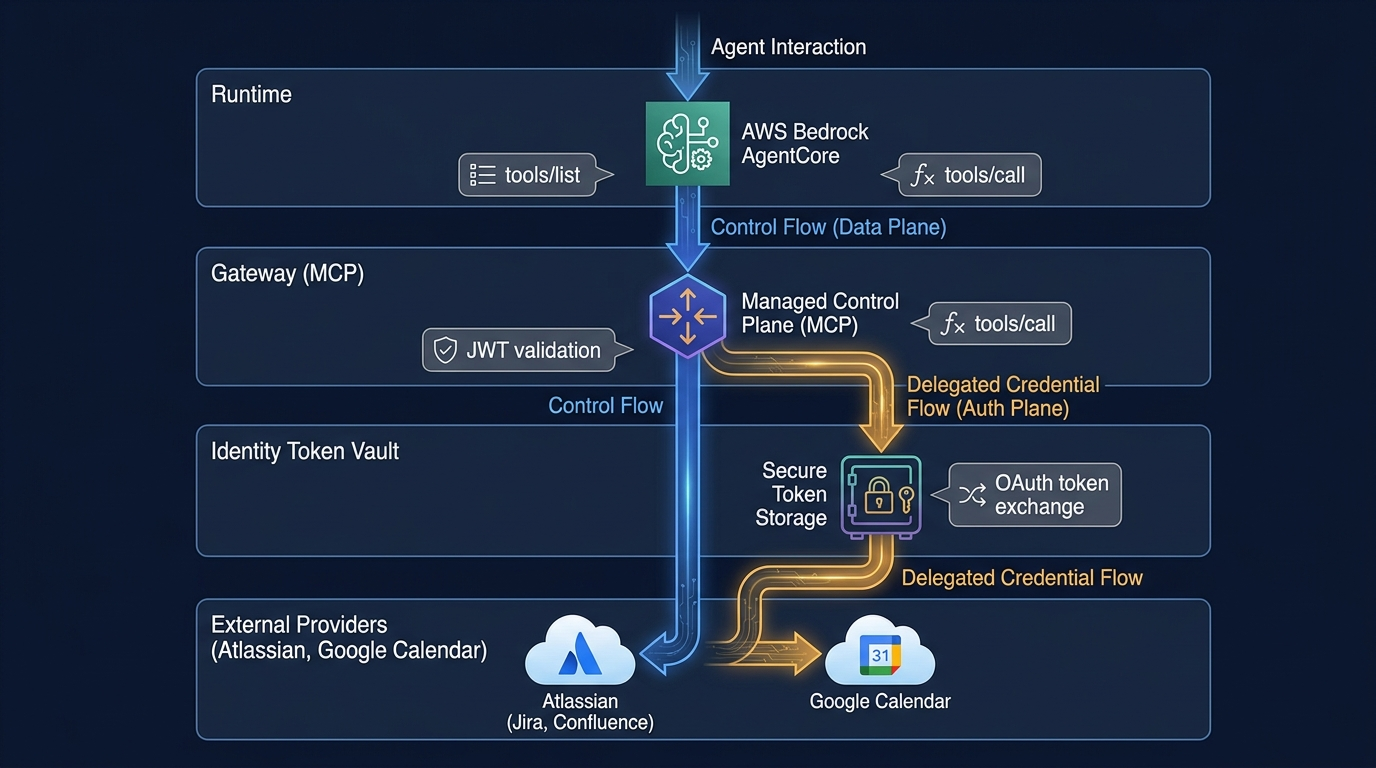
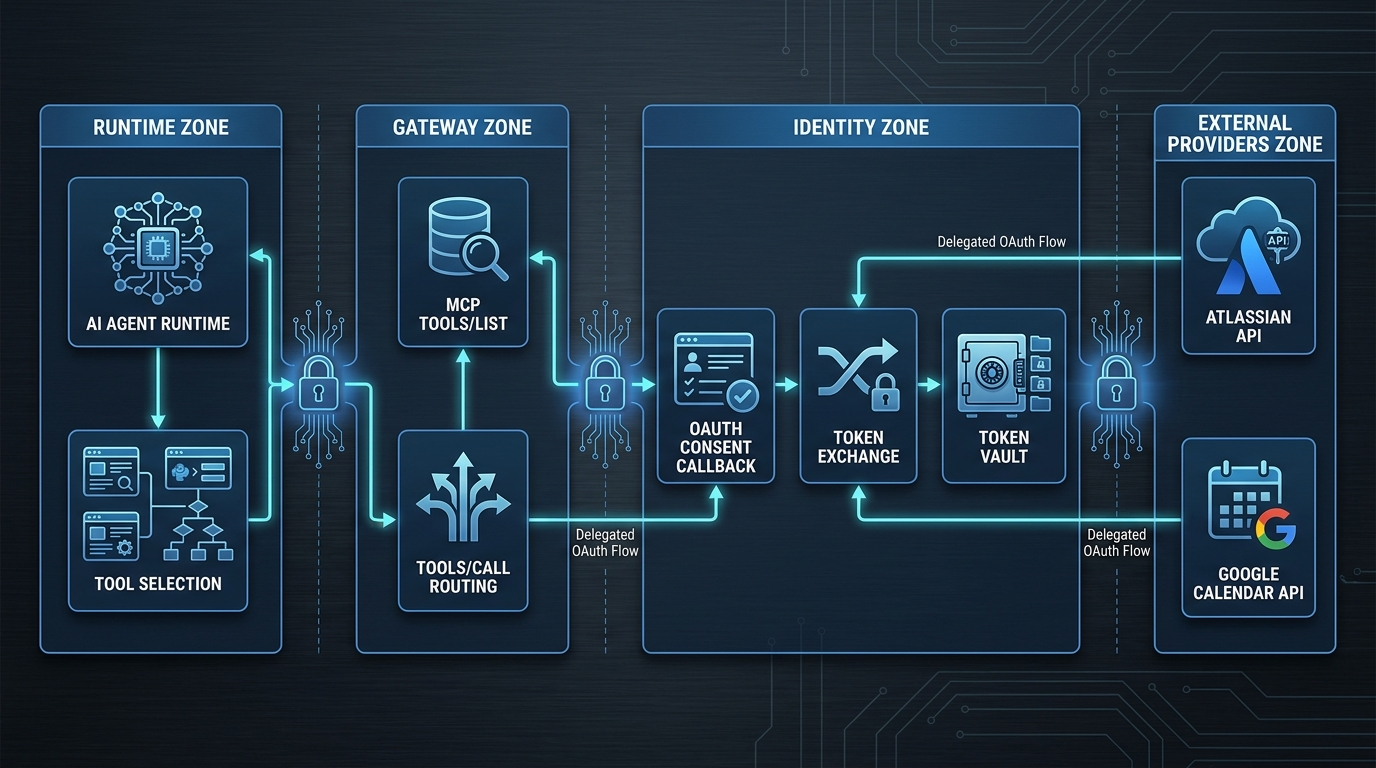
Raise README professionalism and place architecture hero at the top
Reworked the opening section into a professional, problem-first narrative and
removed workflow/internal authoring noise from the public-facing README.
Also regenerated the hero architecture visual and placed it immediately below
the intro so readers get technical context at first glance.

Constraint: Public README must remain concise, professional, and externally consumable
Rejected: Keep 'Readme Structure' and image-generation process notes in README | looked internal and non-professional
Confidence: high
Scope-risk: narrow
Directive: Keep README focused on architecture, problem framing, and operator onboarding only
Tested: Local markdown inspection and asset replacement validation
Not-tested: Remote GitHub markdown render parity

diff --git a/README.md b/README.md
@@ -2,21 +2,18 @@
 
 Production-grade reference for identity-safe AI agent orchestration on Amazon Bedrock AgentCore.
 
-This project addresses one hard problem: how to let an agent call multiple external systems with delegated user OAuth without leaking trust boundaries.
+This repository demonstrates how to orchestrate multi-provider agent workflows with delegated OAuth while preserving strict trust boundaries across runtime, gateway, identity, and provider layers.
 
-## Readme Structure
+![AgentCore Identity Architecture](docs/assets/agentcore-readme-hero-nanobanana.png)
 
-This README is intentionally organized in this order:
+## Problem Statement
 
-1. Problem and scope
-2. Architecture visuals with context
-3. Repository structure
-4. Quick start and deploy
-5. Image generation workflow
+Most agent implementations fail during the transition from prototype to production at the identity boundary.
+The common failure mode is coupling orchestration logic with credential custody, which increases token exposure risk, weakens policy enforcement, and makes OAuth callback recovery brittle.
 
-## Problem and Scope
+## Reference Scope
 
-Most agent prototypes break in production at identity boundaries. This repository is built around:
+This implementation is scoped to:
 
 - Inbound identity validation with Cognito JWT
 - MCP tool discovery and routing through AgentCore Gateway
@@ -28,9 +25,7 @@ Most agent prototypes break in production at identity boundaries. This repositor
 
 ### 1) System Map: Runtime, Gateway, Identity, Providers
 
-This diagram shows the full system decomposition and ownership boundaries.
-
-![AgentCore Identity Architecture Hero](docs/assets/agentcore-readme-hero-nanobanana.png)
+The hero diagram above shows the full system decomposition and ownership boundaries.
 
 How to read this image:
 
@@ -162,22 +157,8 @@ AWS_PROFILE=<AWS_PROFILE> AWS_REGION=<AWS_REGION> \
 npx cdk deploy BedrockIdentityFull --require-approval never
 ```
 
-## Nano Banana Image Workflow
-
-For Codex, use:
-
-- Skill: `image-generator` (Gemini Nano Banana Pro backend)
-- Guide: [docs/IMAGE_GENERATION_NANOBANANA.md](docs/IMAGE_GENERATION_NANOBANANA.md)
-
-Rules:
-
-- keep generated visuals in `docs/assets/`
-- never include secrets in prompts or generated artifacts
-- regenerate diagrams whenever trust boundaries or flows change
-
 ## Documentation Index
 
 - [Documentation Index](docs/README.md)
 - [Atlassian OAuth Setup](docs/ATLASSIAN_OAUTH_SETUP.md)
 - [Production Deployment](docs/PRODUCTION_DEPLOYMENT.md)
-- [Image Generation (Nano Banana)](docs/IMAGE_GENERATION_NANOBANANA.md)
